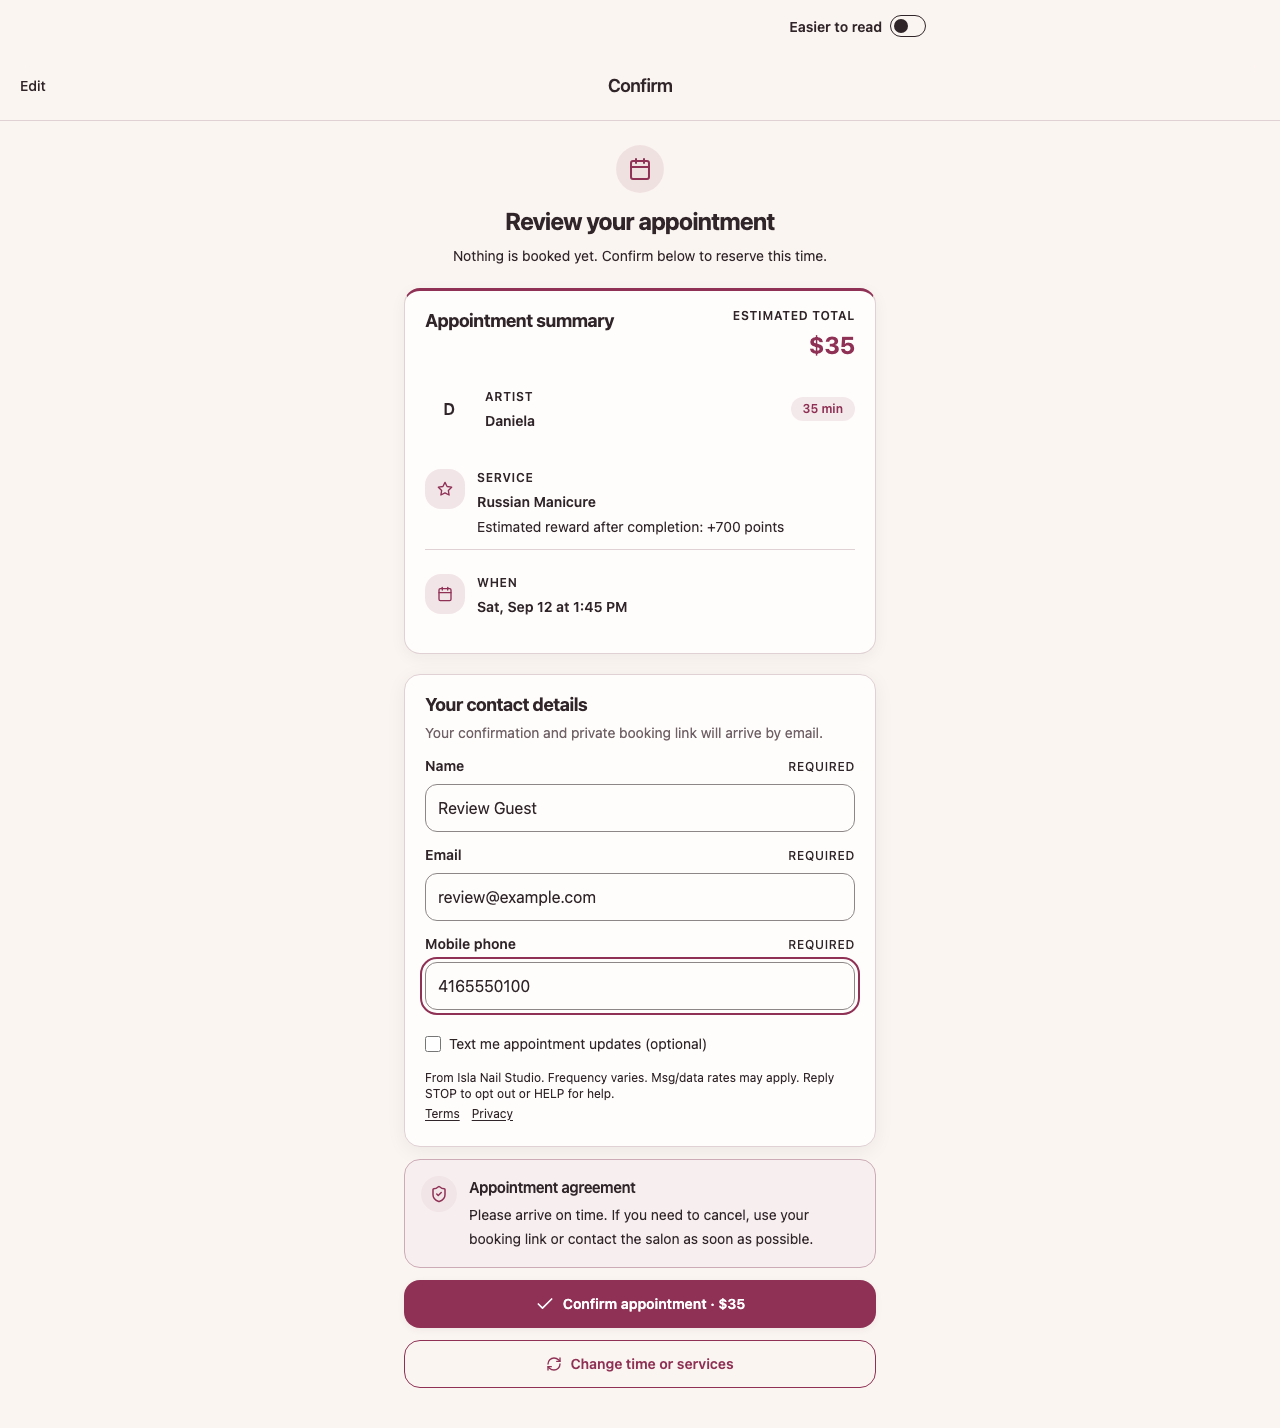
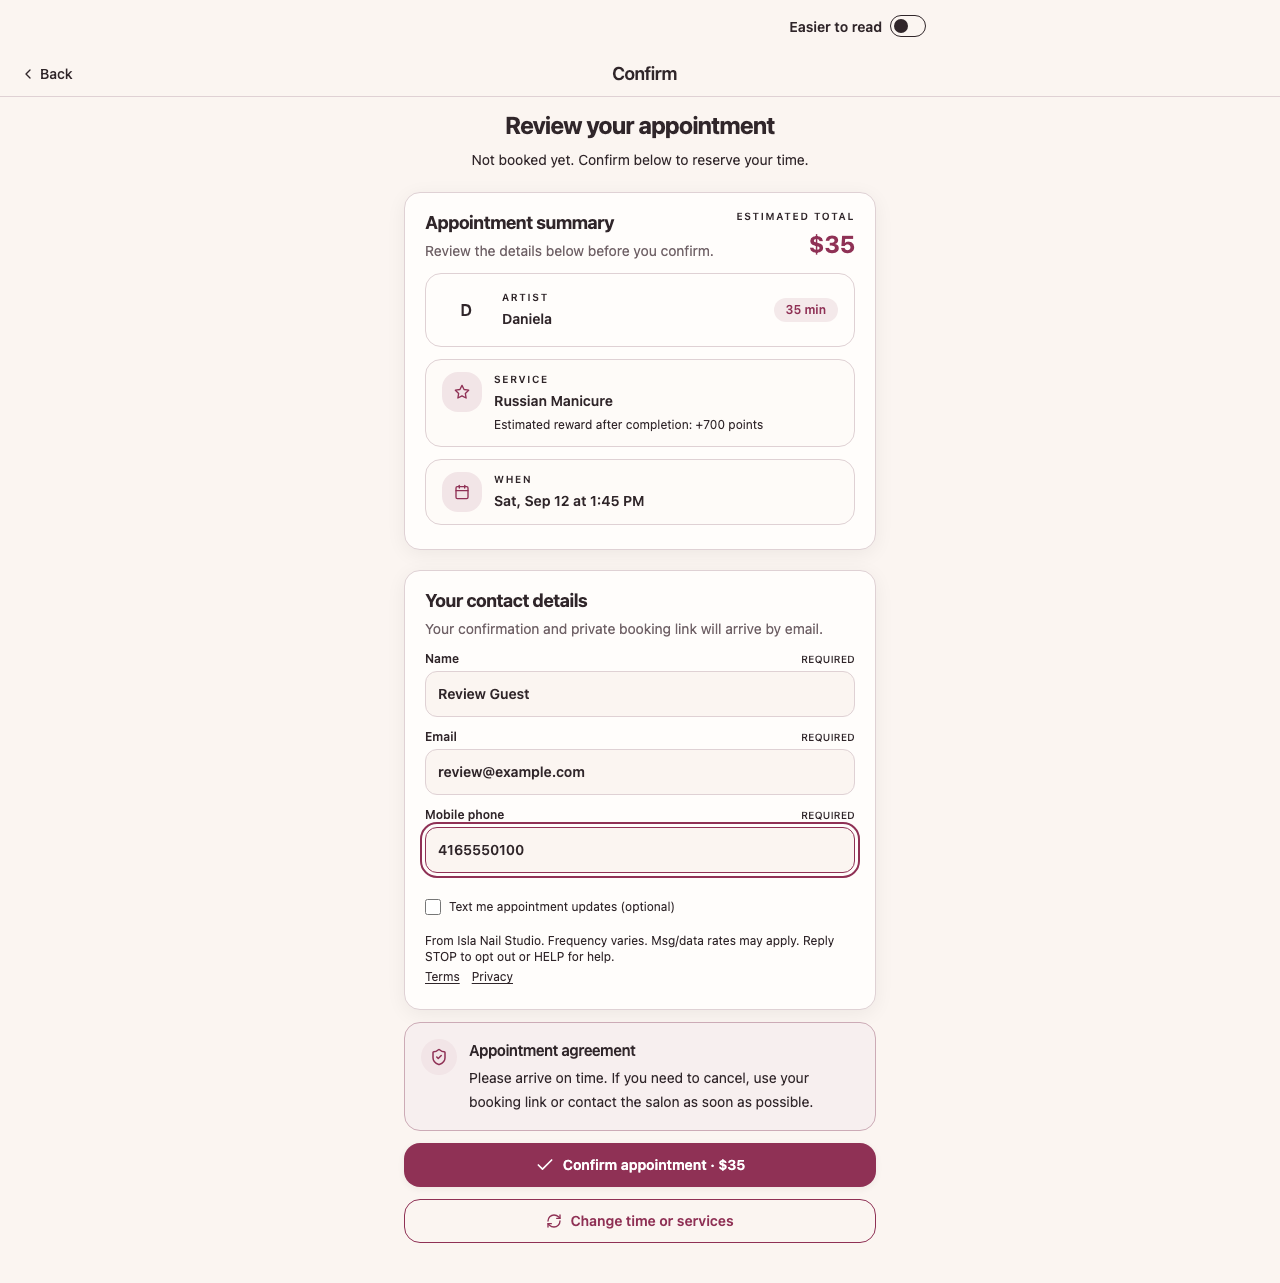
fix(booking): preserve confirmation cards and compact review header

diff --git a/src/app/(unauth)/book/confirm/BookConfirmClient.tsx b/src/app/(unauth)/book/confirm/BookConfirmClient.tsx
@@ -6,6 +6,7 @@ import {
   AlertCircle,
   Calendar,
   Check,
+  ChevronLeft,
   Home,
   Info,
   MapPin,
@@ -630,7 +631,7 @@ const BookingCard = ({
           ? 'You’re all set — here are your appointment details.'
           : resultStatus === 'pending'
             ? 'Your request was sent — these details are awaiting salon approval.'
-            : undefined}
+            : 'Review the details below before you confirm.'}
         className="border-[var(--n5-border)] bg-[var(--n5-bg-card)]"
         headerClassName="booking-review-summary-header"
         actions={(
@@ -1211,7 +1212,7 @@ const ConfirmContent = ({
     <div className="booking-confirm-page min-h-screen bg-[var(--n5-bg-page)]" style={{ fontFamily: n5.fontBody }}>
       <nav
         data-public-surface="bookingProgressHeader"
-        className="sticky top-0 z-40 flex items-center justify-between border-b px-5 py-3 backdrop-blur-md"
+        className="sticky top-0 z-40 flex items-center justify-between border-b px-5 py-0 backdrop-blur-md"
         style={{
           backgroundColor: 'color-mix(in srgb, var(--n5-bg-page) 80%, transparent)',
           borderColor: 'var(--n5-border-muted)',
@@ -1226,7 +1227,8 @@ const ConfirmContent = ({
           }}
           className="font-body inline-flex min-h-11 min-w-11 items-center text-sm font-medium text-[var(--n5-ink-muted)] focus-visible:outline focus-visible:outline-2 focus-visible:outline-offset-2 disabled:cursor-not-allowed disabled:opacity-60"
         >
-          Edit
+          <ChevronLeft aria-hidden="true" className="mr-1 size-4" />
+          Back
         </button>
         <span className="font-heading text-lg font-semibold tracking-tight text-[var(--n5-ink-main)]">
           Confirm
@@ -1234,26 +1236,12 @@ const ConfirmContent = ({
         <div className="w-11" />
       </nav>
 
-      <main aria-busy={isSubmitting} className="mx-auto max-w-lg space-y-5 px-5 pb-10 pt-6">
+      <main aria-busy={isSubmitting} className="mx-auto max-w-lg space-y-5 px-5 pb-10 pt-3">
         <motion.div
           initial={{ opacity: 0, y: 20 }}
           animate={{ opacity: 1, y: 0 }}
           className="text-center"
         >
-          <motion.div
-            initial={{ scale: 0 }}
-            animate={{ scale: 1 }}
-            transition={{ delay: 0.2, type: 'spring', stiffness: 200 }}
-            className="mx-auto mb-3 flex size-12 items-center justify-center"
-            style={{
-              backgroundColor: 'color-mix(in srgb, var(--n5-accent) 10%, transparent)',
-              borderRadius: n5.radiusPill,
-            }}
-          >
-            {isSubmitting
-              ? <RefreshCw aria-hidden="true" className="size-6 animate-spin text-[var(--n5-accent)]" />
-              : <Calendar aria-hidden="true" className="size-6 text-[var(--n5-accent)]" strokeWidth={2} />}
-          </motion.div>
           <h1 className="font-heading mb-2 text-2xl font-bold text-[var(--n5-ink-main)]">
             Review your appointment
           </h1>
@@ -1264,7 +1252,7 @@ const ConfirmContent = ({
                 ? estimatedDepositDueCents > 0
                   ? 'Pay the required deposit to send your request. The salon will review it before the appointment is confirmed.'
                   : 'Nothing is booked yet. Send your request below for the salon to review.'
-                : 'Nothing is booked yet. Confirm below to reserve this time.'}
+                : 'Not booked yet. Confirm below to reserve your time.'}
           </p>
         </motion.div>
 

diff --git a/src/styles/global.css b/src/styles/global.css
@@ -453,10 +453,6 @@
   --n5-ink-muted: var(--n5-ink-main);
 }
 
-.booking-confirm-page main {
-  line-height: 1.55;
-}
-
 .booking-confirm-page .text-neutral-500,
 .booking-confirm-page .text-neutral-900 {
   color: var(--n5-ink-main);
@@ -474,54 +470,13 @@
   overflow-wrap: anywhere;
 }
 
-.booking-confirm-page .text-\[10px\] {
-  font-size: 0.75rem;
-  letter-spacing: 0.06em;
-}
-
-.booking-confirm-page .booking-review-summary > div {
-  border-top: 3px solid var(--n5-accent);
-  box-shadow: 0 4px 16px color-mix(in srgb, var(--n5-ink-main) 5%, transparent);
-}
-
-.booking-review-summary .booking-detail-row {
-  border-width: 0 0 1px;
-  border-radius: 0;
-  background: transparent !important;
-  padding-inline: 0;
-}
-
-.booking-review-summary .booking-detail-row:last-child {
-  border-bottom: 0;
-}
-
 .booking-review-summary .booking-artist-row {
-  border: 0;
-  padding-inline: 0;
   flex-wrap: wrap;
-}
-
-.booking-confirm-page :where(label, p.text-xs) {
-  font-size: 0.875rem;
-  line-height: 1.5;
-}
-
-.booking-confirm-page input:not([type='checkbox']) {
-  min-height: 48px;
-  margin-top: 0.5rem;
-  background: var(--n5-bg-card);
-  border-color: color-mix(in srgb, var(--n5-ink-main) 55%, var(--n5-bg-card));
-  font-size: 1rem;
-  font-weight: 400;
 }
 
 .booking-confirm-page :where(input, button, a):focus-visible {
   outline: 2px solid var(--n5-accent);
   outline-offset: 3px;
-}
-
-.booking-confirm-page main > :last-child button {
-  min-height: 48px;
 }
 
 .booking-reading-toolbar button {

diff --git a/tests/browser/booking-theme/confirmation-polish.spec.ts b/tests/browser/booking-theme/confirmation-polish.spec.ts
@@ -8,15 +8,15 @@ for (const palette of CUSTOMER_SITE_PALETTE_PRESETS) {
     const name = page.getByRole('textbox', { name: 'Customer name' });
 
     await expect(name).toBeVisible();
-    await expect(name).toHaveCSS('font-size', '16px');
-    await expect(name).toHaveCSS('min-height', '48px');
 
     await name.focus();
 
     await expect(name).toHaveCSS('outline-style', 'solid');
     await expect(page.locator('.booking-detail-row')).toHaveCount(2);
-    await expect(page.locator('.booking-detail-row').first()).toHaveCSS('border-top-width', '0px');
-    await expect(page.getByText('Nothing is booked yet. Confirm below to reserve this time.')).toBeVisible();
+    await expect(page.locator('.booking-detail-row').first()).toHaveCSS('border-top-width', '1px');
+    await expect(page.getByText('Not booked yet. Confirm below to reserve your time.')).toBeVisible();
+    await expect(page.getByRole('button', { name: 'Back', exact: true })).toBeVisible();
+    await expect(page.locator('main > div').first().locator('svg')).toHaveCount(0);
 
     const colors = await page.locator('.booking-confirm-page').evaluate((element) => {
       const style = getComputedStyle(element);

diff --git a/tests/browser/booking-theme/readability.spec.ts b/tests/browser/booking-theme/readability.spec.ts
@@ -32,7 +32,7 @@ test('week navigation and full calendar preserve date selection and keyboard acc
   await expect(days).toHaveCount(7);
 });
 
-test('confirmation keyboard order includes reading preferences before Edit', async ({ page, browserName }) => {
+test('confirmation keyboard order includes reading preferences before Back', async ({ page, browserName }) => {
   // macOS WebKit uses Option-Tab to traverse all clickable controls.
   const nextControlKey = browserName === 'webkit' && process.platform === 'darwin' ? 'Alt+Tab' : 'Tab';
   await page.goto('/?step=confirm&count=1');
@@ -45,7 +45,7 @@ test('confirmation keyboard order includes reading preferences before Edit', asy
 
   await page.keyboard.press(nextControlKey);
 
-  const edit = page.getByRole('button', { name: 'Edit', exact: true });
+  const edit = page.getByRole('button', { name: 'Back', exact: true });
 
   await expect(edit).toBeFocused();
   await expect.poll(() => edit.evaluate(element => getComputedStyle(element).outlineStyle)).not.toBe('none');

diff --git a/src/app/(unauth)/book/confirm/BookConfirmClient.test.tsx b/src/app/(unauth)/book/confirm/BookConfirmClient.test.tsx
@@ -292,7 +292,7 @@ describe('BookConfirmClient', () => {
     expect(screen.getByLabelText('Customer name')).toBeDisabled();
     expect(screen.getByLabelText('Customer email')).toBeDisabled();
     expect(screen.getByLabelText('Customer phone')).toBeDisabled();
-    expect(screen.getByRole('button', { name: 'Edit' })).toBeDisabled();
+    expect(screen.getByRole('button', { name: 'Back' })).toBeDisabled();
     expect(screen.getByRole('button', { name: /change time or services/i })).toBeDisabled();
     expect(confirm).toBeDisabled();
 
@@ -2245,7 +2245,7 @@ describe('BookConfirmClient deposit disclosure', () => {
     const instant = renderClient();
 
     expect(screen.getByRole('button', { name: 'Confirm appointment · $65' })).toBeInTheDocument();
-    expect(screen.getByText('Nothing is booked yet. Confirm below to reserve this time.')).toBeInTheDocument();
+    expect(screen.getByText('Not booked yet. Confirm below to reserve your time.')).toBeInTheDocument();
 
     instant.unmount();
 

diff --git a/docs/owner-review/confirmation-polish/README.md b/docs/owner-review/confirmation-polish/README.md
@@ -2,19 +2,19 @@
 
 The confirmation page keeps the salon's current onboarding palette and fonts.
 Supporting copy and labels now use the stronger primary ink, including card
-headings in the dark palette. Inputs have 48px targets, 16px text, stronger
-borders and visible keyboard focus. Appointment details use dividers instead
-of nested boxes. A restrained brand accent and calendar icon distinguish
-reviewing an appointment from an already-confirmed booking.
+headings in the dark palette. Following owner feedback, the existing rounded
+cards, inputs, fonts and shadows are preserved. Keyboard focus remains visible.
 
-The redundant instruction beneath “Appointment summary” is removed; all
-instant-booking, request, reschedule, deposit, policy and consent copy remains.
-The shared receipt summary also gets the flatter rows and text-reflow fix.
+The header uses “Back”, reduces vertical padding and removes the large
+pre-booking icon. Instant-booking copy is shortened to “Not booked yet. Confirm
+below to reserve your time.” Request, reschedule, deposit, policy and consent
+copy remains unchanged. The reading toggle keeps its own compact row for text
+enlargement. The shared receipt summary retains its cards and text-reflow fix.
 Availability and payment logic are unchanged.
 
 ## Design evidence
 
-- [Figma layout study](https://www.figma.com/design/CFsAgvjjShZs0KqnFLwMfw?node-id=4-2): captured product styling with reusable input instances; a design reference, not a live production screenshot.
+- [Earlier Figma layout study](https://www.figma.com/design/CFsAgvjjShZs0KqnFLwMfw?node-id=4-2): superseded by the owner's preference to preserve the existing cards; not the final implementation or live production.
 - [Mobbin / Fresha review and confirm](https://mobbin.com/screens/0ef6b0b2-ed22-4c29-bb2c-74719882f58f): appointment grouping, restrained dividers and clear final action informed this pass.
 - [Mobile implementation](mobile.png)
 - [Desktop implementation](desktop.png)
@@ -26,8 +26,8 @@ synthetic local data and fallback fonts, without creating an appointment.
 
 - Confirmation unit tests: 93 passed.
 - Appointment regression: 103 passed.
-- Booking browser contrast/readability/confirmation suite: 102 passed across
-  desktop Chromium, mobile Chromium and mobile WebKit.
+- Current confirmation/readability browser suite: 52 passed on desktop Chromium
+  and mobile WebKit. Earlier broader contrast suite: 102 passed.
 - Follow-up coverage checks all eight palettes, field focus and 320/375/1280px
   layouts, including 200% text reflow. A discovered duration-badge overflow was
   fixed rather than suppressing overflow.
